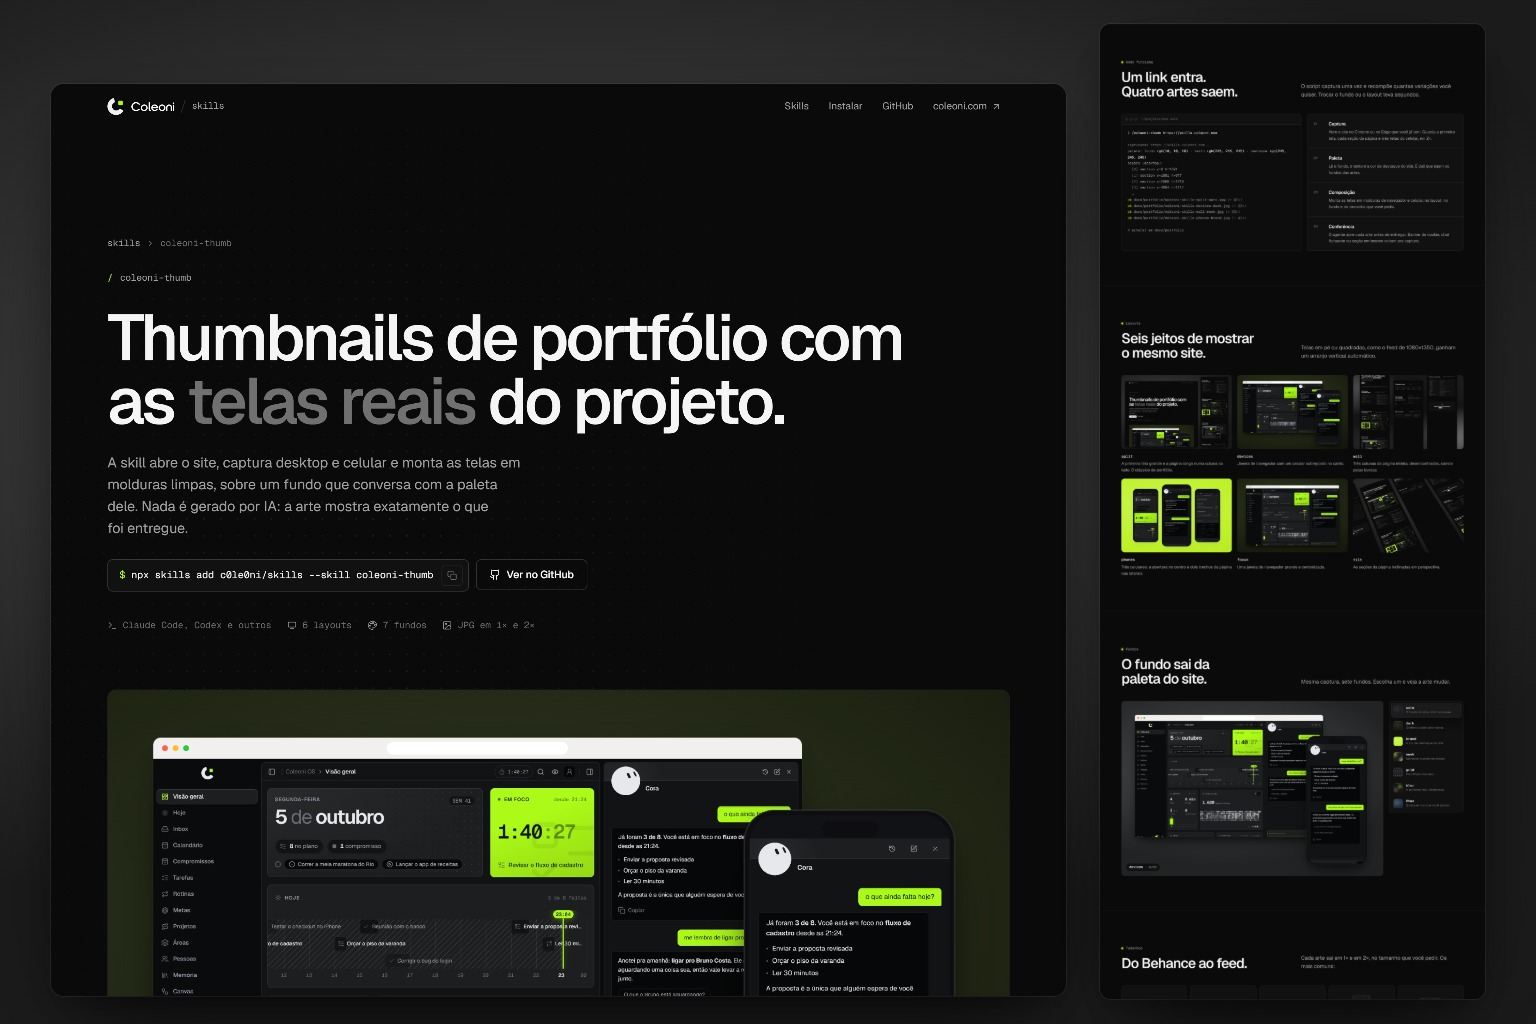
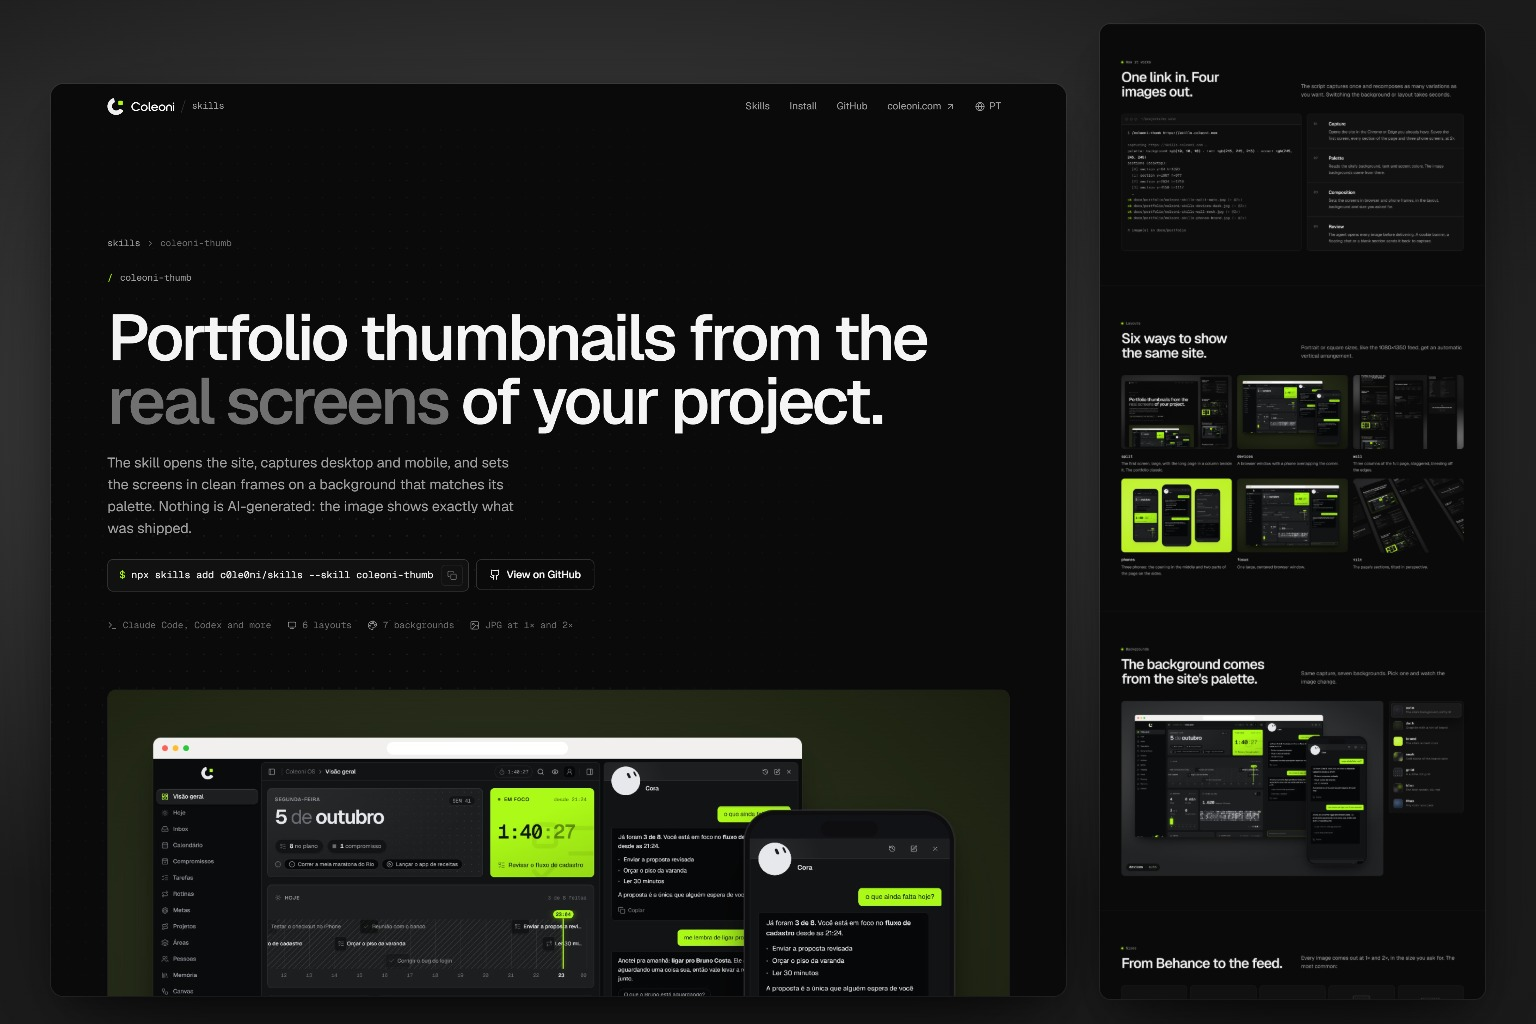
docs: translate the repository to English
README, SKILL.md, the script output, its help and comments, the package
description and the banner are now in English. The skill still replies in
the language the user writes in.

diff --git a/skills/coleoni-thumb/SKILL.md b/skills/coleoni-thumb/SKILL.md
@@ -1,138 +1,140 @@
 ---
 name: coleoni-thumb
 description: >
-  Gera thumbnails e mockups de portfólio de QUALQUER site a partir de capturas
-  reais (não é imagem gerada por IA). Monta as telas em molduras de desktop,
-  página longa, janela de navegador e celular, com vários layouts e fundos
-  (automático, escuro, cor da marca, mesh, pontilhado, desfocado ou cor hex),
-  em 1× e 2×. Use quando o usuário pedir "thumbnail", "capa do projeto",
-  "mockup do site", "imagem pro portfólio/Behance/Dribbble/Instagram", ou rodar
-  /coleoni-thumb.
-argument-hint: "<url> [layouts] [fundos] [tamanho] [o que mostrar/esconder]"
+  Generates portfolio thumbnails and mockups of ANY website from real captures
+  (not AI-generated images). Sets the screens in desktop, long-page, browser
+  window and phone frames, with several layouts and backgrounds (auto, dark,
+  brand color, mesh, dot grid, blur or a hex color), at 1× and 2×. Use when the
+  user asks for a "thumbnail", "project cover", "site mockup", "portfolio /
+  Behance / Dribbble / Instagram image", or runs /coleoni-thumb.
+argument-hint: "<url> [layouts] [backgrounds] [size] [what to show/hide]"
 ---
 
-# Coleoni · Thumbnails de portfólio
+# Coleoni · Portfolio thumbnails
 
-Pedido do usuário: $ARGUMENTS
+User request: $ARGUMENTS
 
-(Se o agente não substituir `$ARGUMENTS`, o pedido é a própria mensagem do usuário.)
+(If the agent does not substitute `$ARGUMENTS`, the request is the user's own message.)
 
-Você transforma um site em artes de apresentação no estilo "mockup de estúdio":
-telas reais do site, em molduras limpas, sobre um fundo que conversa com a
-paleta dele. Tudo sai de capturas reais, então a arte mostra exatamente o que
-foi entregue, sem custo de API de imagem.
+You turn a website into studio-style presentation images: the site's real
+screens, in clean frames, on a background that matches its palette. Everything
+comes from real captures, so the image shows exactly what was shipped, with no
+image API cost.
 
-O motor é `scripts/thumb.mjs` (Node + `playwright-core` com o Chrome instalado,
-sem baixar navegador). Ele captura uma vez e recompõe quantas variações quiser.
+Reply to the user in the language they wrote in.
 
-## 1. Entender o pedido
+The engine is `scripts/thumb.mjs` (Node + `playwright-core` driving the
+installed Chrome, no browser download). It captures once and recomposes as many
+variations as you want.
+
+## 1. Understand the request
 
 - **URL.**
-  - Se o usuário não passou uma, use o site do projeto atual.
-  - Site local: confirme que o servidor está de pé. Prefira o build de produção, porque o dev pode ter o indicador do Next na tela; suba o servidor do projeto se precisar.
-  - URL pública: use direto.
-- **Variações.** Layouts e fundos que ele quer.
-  - Se não disser, rode o conjunto padrão de 4 artes: `split:auto`, `devices:dark`, `wall:mesh` e `phones:brand`.
-  - Se pedir "várias opções", gere 6–8 pares variados.
-- **Tamanho.**
-  - Padrão `1536x1024` (3:2), com o 2× junto.
-  - Comuns: `1920x1080` (16:9), `1600x1200` (4:3), `1080x1350` (feed 4:5) e `1200x1200` (quadrado).
-  - Telas em pé ou quadradas usam um arranjo vertical automático.
-- **O que esconder.** Banners de cookies, chat, botões flutuantes e popups: use `--hide`. **Nunca clique em "aceitar" cookies** só para limpar a tela; esconda com CSS.
-- **Pasta de saída.** Dentro do projeto atual (ex.: `docs/portfolio/`) ou onde o usuário pedir. Não commitar sem ele pedir.
+  - If the user did not pass one, use the current project's site.
+  - Local site: make sure the server is up. Prefer the production build, since dev servers may show overlays (like the Next.js indicator); start the project's server if needed.
+  - Public URL: use it as is.
+- **Variations.** The layouts and backgrounds they want.
+  - If they don't say, run the default set of 4 images: `split:auto`, `devices:dark`, `wall:mesh` and `phones:brand`.
+  - If they ask for "several options", generate 6–8 varied pairs.
+- **Size.**
+  - Default `1536x1024` (3:2), with the 2× alongside.
+  - Common: `1920x1080` (16:9), `1600x1200` (4:3), `1080x1350` (4:5 feed) and `1200x1200` (square).
+  - Portrait or square sizes get an automatic vertical arrangement.
+- **What to hide.** Cookie banners, chat widgets, floating buttons and popups: use `--hide`. **Never click "accept" on cookies** just to clean the screen; hide them with CSS.
+- **Output folder.** Inside the current project (e.g. `docs/portfolio/`) or wherever the user asks. Do not commit without being asked.
 
-## 2. Preparar (uma vez por máquina)
+## 2. Prepare (once per machine)
 
-`SKILL_DIR` é a pasta onde está este `SKILL.md`. Ela muda conforme o agente e o
-escopo da instalação (`~/.claude/skills/coleoni-thumb`, `~/.codex/skills/coleoni-thumb`,
-`.agents/skills/coleoni-thumb` no projeto…). Use o caminho real de onde você leu
-este arquivo.
+`SKILL_DIR` is the folder that holds this `SKILL.md`. It changes with the agent
+and the install scope (`~/.claude/skills/coleoni-thumb`,
+`~/.codex/skills/coleoni-thumb`, `.agents/skills/coleoni-thumb` in a project…).
+Use the real path you read this file from.
 
-Se `SKILL_DIR/node_modules/playwright-core` não existir, instale:
+If `SKILL_DIR/node_modules/playwright-core` does not exist, install it:
 
 ```bash
 cd SKILL_DIR && npm install
 ```
 
-Só instala `playwright-core`; usa o Chrome (ou o Edge) do sistema. Se não achar o navegador, defina `CHROME_PATH`.
+It only installs `playwright-core` and uses the system Chrome (or Edge). If the browser is not found, set `CHROME_PATH`.
 
-## 3. Rodar
+## 3. Run
 
 ```bash
-node SKILL_DIR/scripts/thumb.mjs <url> --out <pasta> [opções]
+node SKILL_DIR/scripts/thumb.mjs <url> --out <folder> [options]
 ```
 
-O script imprime:
-- a paleta detectada: fundo, texto e destaque;
-- a **lista de seções** do desktop, com índice, posição e altura.
+The script prints:
+- the detected palette: background, text and accent;
+- the desktop **section list**, with index, position and height.
 
-Use essa lista para escolher `--column`.
+Use that list to pick `--column`.
 
-### Opções
+### Options
 
-| Opção | Para quê |
+| Option | What it does |
 | --- | --- |
-| `--set split:auto,phones:#1f2a24` | Pares exatos layout:fundo (recomendado) |
-| `--layouts a,b` + `--bg x,y` | Combinação de todos os layouts com todos os fundos |
-| `--frame plain\|browser` | Moldura das telas de desktop (padrão: `plain` no split e no wall, `browser` no devices e no focus) |
-| `--size 1536x1024` | Tamanho em 1× (o 2× sai junto) |
-| `--name meu-projeto` | Prefixo dos arquivos (padrão: título do site) |
-| `--label site.com.br` | Texto da barra do navegador (padrão: o host; vazio em localhost) |
-| `--column 1,2,5,9` | Seções que entram na página longa, na parede e no tilt (padrão: todas depois da primeira) |
-| `--phone-at 0,0.3,0.62` | Trechos da página nos três celulares, em fração da altura; encaixa no início da seção mais próxima |
-| `--hide ".cookie,#chat"` | Esconde elementos nas capturas |
-| `--force-visible` | Força visíveis elementos de animação de entrada (AOS, `.reveal`, `.wow`…) que ficaram transparentes |
-| `--motion` | Captura sem movimento reduzido. O padrão é reduzido, que evita pegar animação pela metade |
-| `--wait 800` | Espera extra antes de capturar (sites lentos) |
+| `--set split:auto,phones:#1f2a24` | Exact layout:background pairs (recommended) |
+| `--layouts a,b` + `--bg x,y` | Every layout combined with every background |
+| `--frame plain\|browser` | Frame for desktop screens (default: `plain` for split and wall, `browser` for devices and focus) |
+| `--size 1536x1024` | Size at 1× (the 2× comes with it) |
+| `--name my-project` | File prefix (default: the site title) |
+| `--label example.com` | Text in the browser bar (default: the host; empty on localhost) |
+| `--column 1,2,5,9` | Sections used in the long page, the wall and the tilt (default: every section after the first) |
+| `--phone-at 0,0.3,0.62` | Parts of the page on the three phones, as a fraction of the height; snaps to the nearest section start |
+| `--hide ".cookie,#chat"` | Hides elements in the captures |
+| `--force-visible` | Forces entrance-animation elements (AOS, `.reveal`, `.wow`…) that stayed transparent to show |
+| `--motion` | Captures without reduced motion. The default is reduced, which avoids catching an animation halfway |
+| `--wait 800` | Extra wait before capturing (slow sites) |
 | `--desktop 1440x900` `--mobile 390x844` | Viewports |
-| `--reuse` | Reaproveita as capturas e só recompõe. Use para testar fundos e layouts rápido |
+| `--reuse` | Reuses the captures and only recomposes. Use it to try backgrounds and layouts quickly |
 
 ### Layouts
 
-- `split`: tela grande do desktop (topo da página) e uma coluna com a página longa ao lado. É o clássico de portfólio.
-- `devices`: janela de navegador com um celular sobreposto no canto.
-- `wall`: três colunas da página inteira, desencontradas, saindo pelas bordas.
-- `phones`: trio de celulares (abertura no centro, dois trechos nas laterais).
-- `focus`: uma janela de navegador grande e centralizada.
-- `tilt`: páginas inclinadas em perspectiva (isométrico).
+- `split`: the large desktop screen (top of the page) with a column showing the long page beside it. The portfolio classic.
+- `devices`: a browser window with a phone overlapping the corner.
+- `wall`: three columns of the full page, staggered, bleeding off the edges.
+- `phones`: three phones (the opening in the middle, two parts of the page on the sides).
+- `focus`: one large, centered browser window.
+- `tilt`: pages tilted in perspective (isometric).
 
-### Fundos
+### Backgrounds
 
-- `auto`: o fundo do site, um pouco mais escuro, com luz suave. É o mais elegante.
-- `dark`: grafite levemente puxado para a cor da marca.
-- `brand`: a cor de destaque do site.
-- `mesh`: manchas suaves com a cor da marca.
-- `grid`: pontilhado discreto sobre o tom do site.
-- `blur`: a primeira tela do site desfocada e escurecida.
-- `#rrggbb`: cor livre.
+- `auto`: the site's background, slightly darker, softly lit. The most elegant.
+- `dark`: graphite with a slight pull toward the brand color.
+- `brand`: the site's accent color.
+- `mesh`: soft blobs of the brand color.
+- `grid`: a subtle dot grid over the site's tone.
+- `blur`: the site's first screen, blurred and darkened.
+- `#rrggbb`: any color.
 
-## 4. Conferir antes de entregar (obrigatório)
+## 4. Check before delivering (required)
 
-Abra **cada** JPG gerado (com a ferramenta de ler imagem do seu agente) e procure:
+Open **every** generated JPG (with your agent's image-reading tool) and look for:
 
-- **Banner, chat ou botão flutuante por cima.** Use `--hide` e rode de novo.
-- **Seção em branco ou meio transparente** (animação de entrada que não disparou). Use `--force-visible` ou `--wait`.
-- **Hero capturada no meio de uma animação.** O padrão já é movimento reduzido; se o site só mostra conteúdo com animação, use `--motion` e `--wait`.
-- **Corte feio na coluna, na parede ou no tilt** (seção cortada no meio de cards, seção sem graça como uma lista de filtros). Escolha seções melhores com `--column`, olhando a lista impressa.
-- **Celulares mostrando trechos pobres.** Ajuste `--phone-at`.
-- **Barra do navegador vazia ou errada.** Use `--label`.
-- **Fundo brigando com o site.** Tente outro fundo com `--reuse`, que leva segundos.
+- **A banner, chat or floating button on top.** Use `--hide` and run again.
+- **A blank or half-transparent section** (an entrance animation that did not fire). Use `--force-visible` or `--wait`.
+- **A hero caught mid-animation.** Reduced motion is already the default; if the site only shows content with animation, use `--motion` and `--wait`.
+- **An ugly cut in the column, wall or tilt** (a section cut through the middle of cards, a dull section like a filter list). Pick better sections with `--column`, using the printed list.
+- **Phones showing weak parts of the page.** Adjust `--phone-at`.
+- **An empty or wrong browser bar.** Use `--label`.
+- **A background fighting the site.** Try another one with `--reuse`, which takes seconds.
 
-Corrija e recomponha com `--reuse` sempre que a captura em si estiver boa.
+Fix and recompose with `--reuse` whenever the capture itself is good.
 
-## 5. Entregar
+## 5. Deliver
 
-- Mostre as artes ao usuário (a versão 1×; diga que o @2x está na mesma pasta). Se o agente tiver uma ferramenta de enviar arquivo, use-a.
-- Liste os arquivos com caminho clicável.
-- Em uma linha, sugira uma ou duas variações que valham a pena, com o comando pronto (ex.: o mesmo layout num fundo escuro, ou um momento específico do site).
-- Não commitar as imagens sem o usuário pedir.
+- Show the images to the user (the 1× version; mention the @2x is in the same folder). If the agent has a tool for sending files, use it.
+- List the files with clickable paths.
+- In one line, suggest one or two variations worth trying, with the command ready (e.g. the same layout on a dark background, or a specific moment of the site).
+- Do not commit the images unless the user asks.
 
-## Notas
+## Notes
 
-- As capturas ficam em `<out>/.capture/<host>/`: PNGs em 2× e o `meta.json` com paleta e seções. A pasta pode ser apagada depois.
-- Sites com cena ou animação presa à rolagem: o modo reduzido costuma mostrar a versão estática, que é a melhor para thumbnail. Para mostrar um momento específico da cena, capture à parte e componha com o HTML gerado em `.capture/` como base.
-- Páginas muito longas: cada seção é limitada a 4000px de captura.
+- Captures live in `<out>/.capture/<host>/`: 2× PNGs and `meta.json` with the palette and sections. The folder can be deleted afterwards.
+- Sites with scroll-bound scenes or animation: reduced motion usually shows the static version, which is the best one for a thumbnail. To show a specific moment of the scene, capture it separately and compose using the HTML generated in `.capture/` as a base.
+- Very long pages: each section capture is capped at 4000px.
 
 ---
 
-Feita pela [Coleoni](https://coleoni.com) · [skills.coleoni.com](https://skills.coleoni.com/coleoni-thumb/)
+Made by [Coleoni](https://coleoni.com) · [skills.coleoni.com](https://skills.coleoni.com/coleoni-thumb/)

diff --git a/README.md b/README.md
@@ -1,6 +1,6 @@
 <p align="center">
   <a href="https://skills.coleoni.com">
-    <img src=".github/assets/banner.jpg" alt="Coleoni Skills: skills para Claude Code, Codex e outros agentes" width="100%">
+    <img src=".github/assets/banner.jpg" alt="Coleoni Skills: skills for Claude Code, Codex and other agents" width="100%">
   </a>
 </p>
 
@@ -9,79 +9,79 @@
   &nbsp;·&nbsp;
   <a href="https://coleoni.com">coleoni.com</a>
   &nbsp;·&nbsp;
-  <a href="#licença">Licença MIT</a>
+  <a href="#license">MIT License</a>
 </p>
 
 <br>
 
-As skills que eu uso no meu fluxo pra entregar projeto, abertas e de graça.
-Funcionam no **Claude Code**, no **Codex**, no **Cursor**, no **Gemini CLI** e
-nos outros agentes que leem `SKILL.md`.
+The skills I use in my own workflow to ship projects, open and free. They work
+in **Claude Code**, **Codex**, **Cursor**, **Gemini CLI** and any other agent
+that reads `SKILL.md`.
 
-## Instalar
+## Install
 
 ```bash
 npx skills add c0le0ni/skills
 ```
 
-O instalador mostra as skills deste repositório e pergunta em quais agentes
-instalar. Pra pular as perguntas:
+The installer lists the skills in this repository and asks which agents to add
+them to. To skip the questions:
 
-| Quero | Comando |
+| I want | Command |
 | --- | --- |
-| Só uma skill | `npx skills add c0le0ni/skills --skill coleoni-thumb` |
-| Pro usuário todo, não só o projeto | `npx skills add c0le0ni/skills -g` |
-| Só no Claude Code | `npx skills add c0le0ni/skills -a claude-code` |
-| Só no Codex | `npx skills add c0le0ni/skills -a codex` |
-| Ver a lista sem instalar | `npx skills add c0le0ni/skills --list` |
+| A single skill | `npx skills add c0le0ni/skills --skill coleoni-thumb` |
+| For my whole user, not just the project | `npx skills add c0le0ni/skills -g` |
+| Claude Code only | `npx skills add c0le0ni/skills -a claude-code` |
+| Codex only | `npx skills add c0le0ni/skills -a codex` |
+| See the list without installing | `npx skills add c0le0ni/skills --list` |
 
-Usa o [`skills`](https://github.com/vercel-labs/skills), o instalador aberto
-de skills da Vercel. Precisa do Node.js 18 ou mais novo.
+It uses [`skills`](https://github.com/vercel-labs/skills), Vercel's open skills
+installer. Requires Node.js 18 or newer.
 
 ## Skills
 
-| Skill | O que faz |
+| Skill | What it does |
 | --- | --- |
-| [`/coleoni-thumb`](#coleoni-thumb) | Thumbnails e mockups de portfólio com as telas reais do projeto |
+| [`/coleoni-thumb`](#coleoni-thumb) | Portfolio thumbnails and mockups from your project's real screens |
 
 <br>
 
 ### `/coleoni-thumb`
 
 <a href="https://skills.coleoni.com/coleoni-thumb/">
-  <img src=".github/assets/coleoni-thumb-phones-brand.jpg" alt="Arte gerada pela coleoni-thumb: três celulares com o Coleoni OS sobre o fundo da marca" width="100%">
+  <img src=".github/assets/coleoni-thumb-phones-brand.jpg" alt="Image made by coleoni-thumb: three phones showing Coleoni OS on the brand background" width="100%">
 </a>
 
-A skill abre o site, captura desktop e celular e monta as telas em molduras de
-navegador e celular, sobre um fundo tirado da paleta do próprio site. Nada é
-gerado por IA: a arte mostra exatamente o que foi entregue.
+The skill opens the site, captures desktop and mobile, and sets the screens in
+browser and phone frames on a background taken from the site's own palette.
+Nothing is AI-generated: the image shows exactly what was shipped.
 
-- **6 layouts:** `split`, `devices`, `wall`, `phones`, `focus` e `tilt`.
-- **7 fundos:** `auto`, `dark`, `brand`, `mesh`, `grid`, `blur` ou qualquer cor hex.
-- **JPG em 1× e 2×**, no tamanho que você pedir: 3:2, 16:9, 4:3, feed 4:5 ou quadrado.
-- **Sem download de navegador.** Usa o Chrome ou o Edge da máquina. O único
-  pacote é o `playwright-core`, que o agente instala no primeiro uso.
+- **6 layouts:** `split`, `devices`, `wall`, `phones`, `focus` and `tilt`.
+- **7 backgrounds:** `auto`, `dark`, `brand`, `mesh`, `grid`, `blur` or any hex color.
+- **JPG at 1× and 2×**, in the size you ask for: 3:2, 16:9, 4:3, 4:5 feed or square.
+- **No browser download.** It uses the Chrome or Edge already on the machine.
+  The only package is `playwright-core`, which the agent installs on first use.
 
 ```text
-/coleoni-thumb https://seusite.com.br
-/coleoni-thumb https://seusite.com.br phones e devices no fundo da marca, 1080x1350
+/coleoni-thumb https://yoursite.com
+/coleoni-thumb https://yoursite.com phones and devices on the brand background, 1080x1350
 ```
 
 <table>
   <tr>
-    <td width="50%"><img src=".github/assets/coleoni-thumb-split-auto.jpg" alt="Layout split"><br><sub><code>split</code> · <code>auto</code></sub></td>
-    <td width="50%"><img src=".github/assets/coleoni-thumb-devices-dark.jpg" alt="Layout devices"><br><sub><code>devices</code> · <code>dark</code></sub></td>
+    <td width="50%"><img src=".github/assets/coleoni-thumb-split-auto.jpg" alt="split layout"><br><sub><code>split</code> · <code>auto</code></sub></td>
+    <td width="50%"><img src=".github/assets/coleoni-thumb-devices-dark.jpg" alt="devices layout"><br><sub><code>devices</code> · <code>dark</code></sub></td>
   </tr>
   <tr>
-    <td width="50%"><img src=".github/assets/coleoni-thumb-wall-mesh.jpg" alt="Layout wall"><br><sub><code>wall</code> · <code>mesh</code></sub></td>
-    <td width="50%"><img src=".github/assets/coleoni-thumb-tilt-dark.jpg" alt="Layout tilt"><br><sub><code>tilt</code> · <code>dark</code></sub></td>
+    <td width="50%"><img src=".github/assets/coleoni-thumb-wall-mesh.jpg" alt="wall layout"><br><sub><code>wall</code> · <code>mesh</code></sub></td>
+    <td width="50%"><img src=".github/assets/coleoni-thumb-tilt-dark.jpg" alt="tilt layout"><br><sub><code>tilt</code> · <code>dark</code></sub></td>
   </tr>
 </table>
 
-Todas as artes desta página foram geradas pela própria skill.
-[Ver a página completa da skill](https://skills.coleoni.com/coleoni-thumb/).
+Every image on this page was made by the skill itself.
+[See the full skill page](https://skills.coleoni.com/coleoni-thumb/).
 
-## Feito por
+## Made by
 
 <a href="https://coleoni.com">
   <picture>
@@ -90,15 +90,15 @@ Todas as artes desta página foram geradas pela própria skill.
   </picture>
 </a>
 
-**Michel Coleoni**, desenvolvedor que constrói sites sob medida. Estas skills
-saem dos projetos da Coleoni e ficam abertas pra quem quiser usar.
+**Michel Coleoni**, a developer who builds custom websites. These skills come
+out of Coleoni's projects and are open for anyone to use.
 
-- Site: [coleoni.com](https://coleoni.com)
+- Website: [coleoni.com](https://coleoni.com)
 - Skills: [skills.coleoni.com](https://skills.coleoni.com)
 
-Se uma skill te ajudou, uma estrela aqui no repositório ajuda a divulgar.
+If a skill helped you, a star on this repository helps spread the word.
 
-## Licença
+## License
 
-[MIT](LICENSE). Use, mude e redistribua à vontade, mantendo o aviso de
-copyright com o nome da Coleoni.
+[MIT](LICENSE). Use it, change it and share it freely, keeping the copyright
+notice with Coleoni's name.
